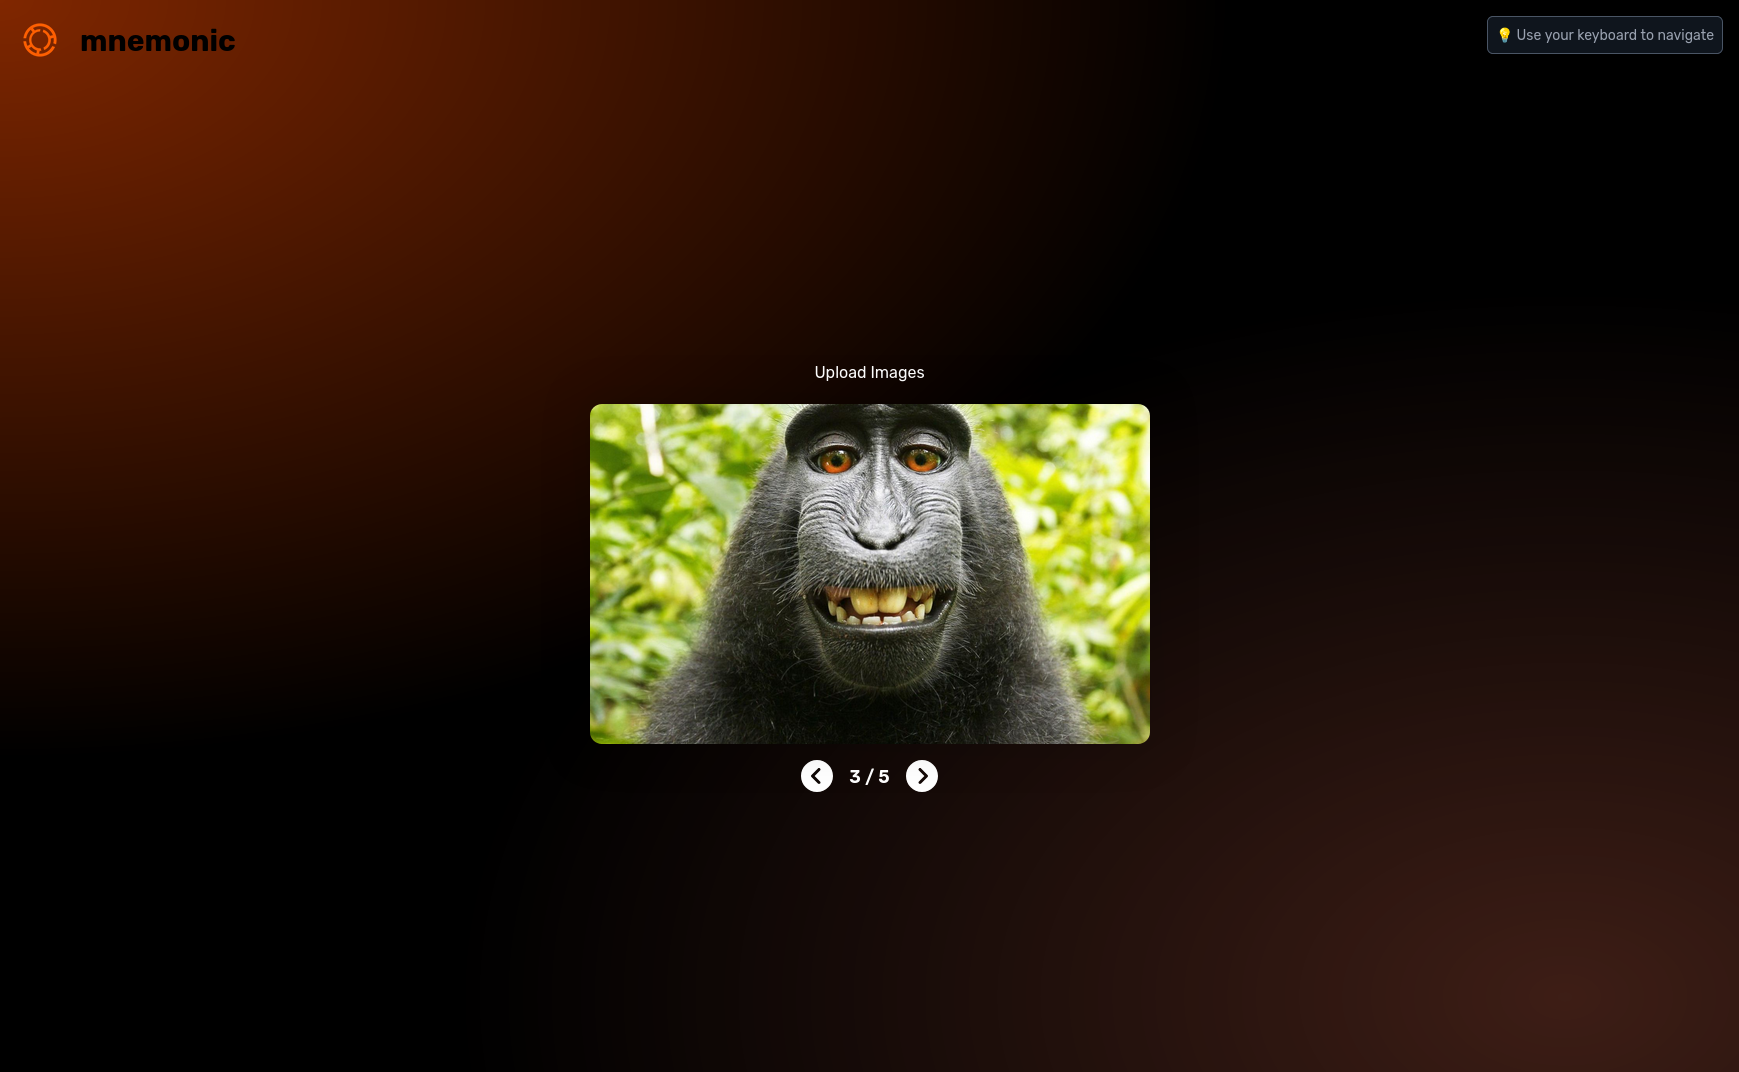
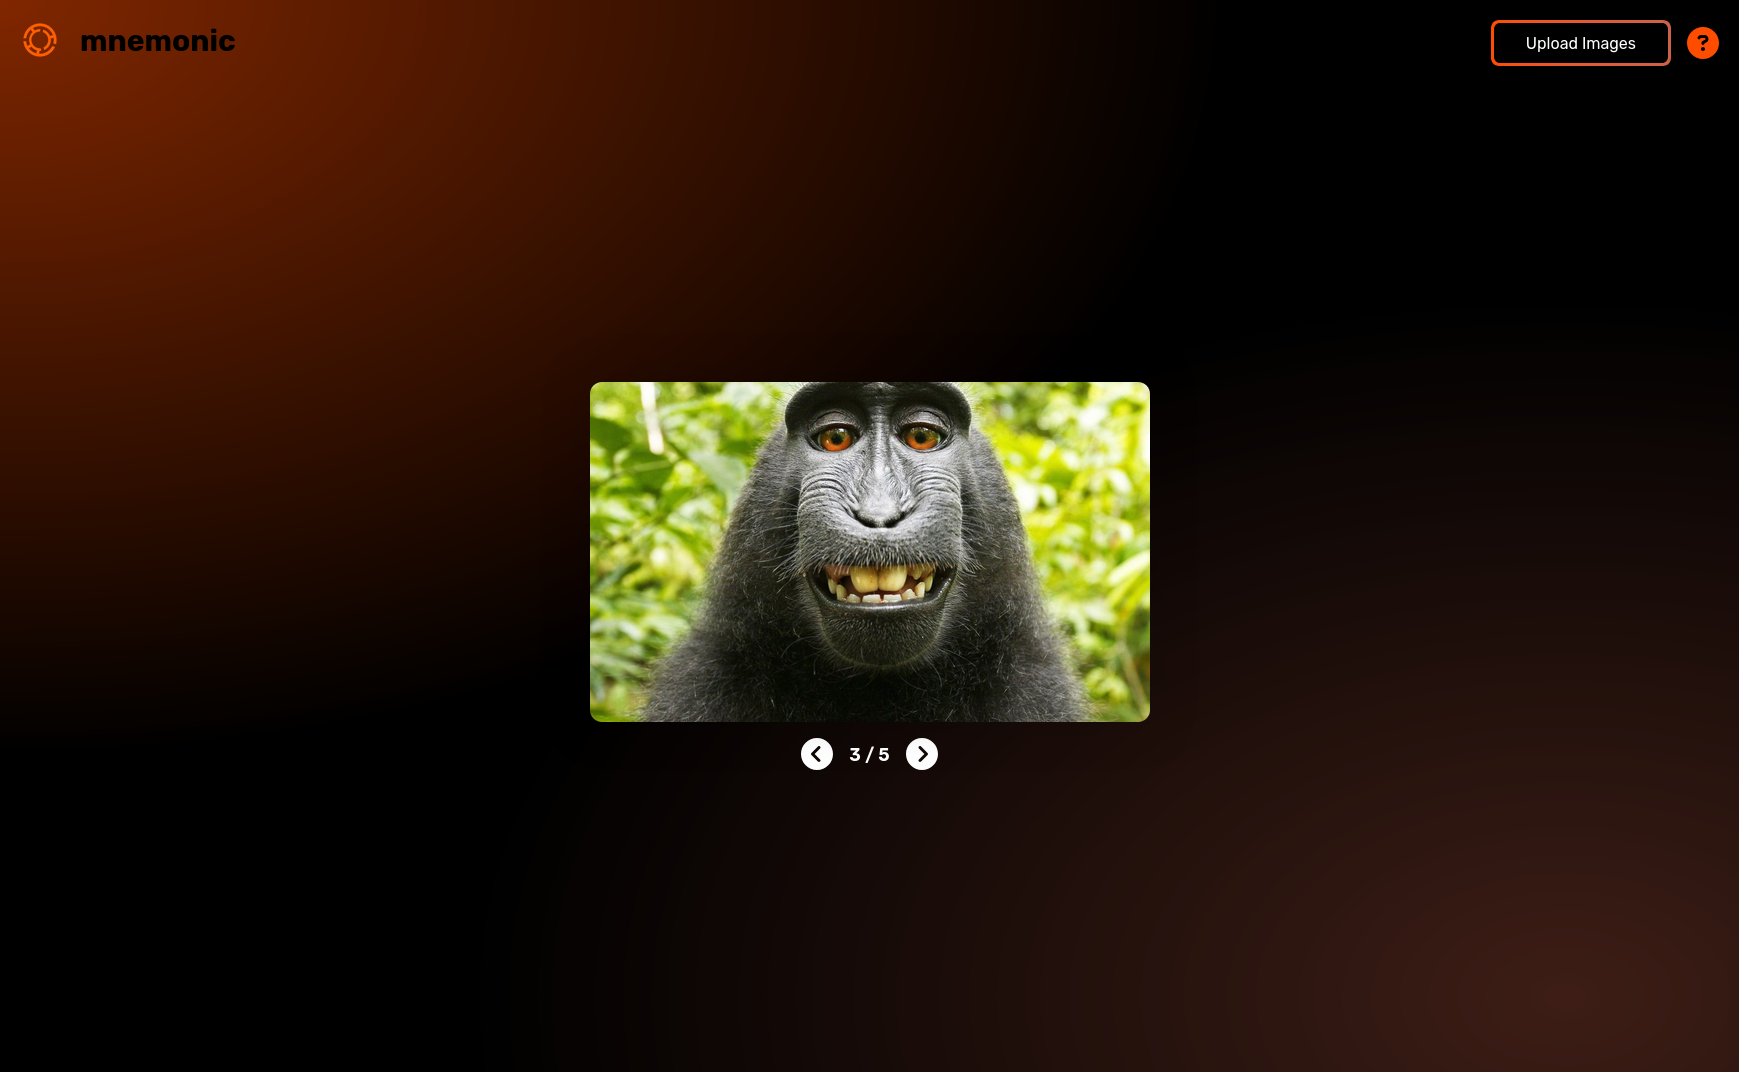
add shuffling

Changed region(s): [[0.3416, 0.3386, 0.6832, 0.7388], [0.8384, 0.0, 0.9937, 0.0616]]

diff --git a/mnemonic/src/App.tsx b/mnemonic/src/App.tsx
@@ -2,17 +2,17 @@ import { FlashcardArray } from "react-quizlet-flashcard";
 import Upload from "./Upload";
 import { useEffect, useRef, useState } from "react";
 import loadLocal from "./LoadLocal";
-import type { FlashcardProps } from "./FlashcardHelper";
+import { shuffleFlashcards, type FlashcardProps } from "./FlashcardHelper";
 import { useKeyboardShortcut } from "./KeyboardHandler";
 import { CircleChevronLeft } from "./assets/CircleChevronLeft";
 import { CircleChevronRight } from "./assets/CircleChevronRight";
 import { CircleQuestionMark } from "./assets/CircleQuestionMark";
 
-interface FlashcardControls {
+type FlashcardControls = {
   nextCard: () => void;
   prevCard: () => void;
   resetArray: () => void;
-}
+};
 
 function App() {
   const [cards, setCards] = useState<FlashcardProps[]>([]);
@@ -37,81 +37,94 @@ function App() {
     onKeyPressed: () => currentCardFlipRef.current?.(),
   });
   useKeyboardShortcut({
-    key: "r",
-    onKeyPressed: () => {
-      controlRef.current?.resetArray();
-      setCurrentCard(1);
-    },
+    key: "s",
+    onKeyPressed: () => resetCards(),
   });
 
+  function resetCards() {
+    setCards((prevCards) => shuffleFlashcards([...prevCards]));
+    controlRef.current?.resetArray();
+    setCurrentCard(1);
+  }
+
   useEffect(() => {
-    loadLocal(setCards);
+    setCards(loadLocal());
   }, []);
 
   return (
-    <div className="flex flex-col justify-center items-center h-screen gap-5">
-      <div className="absolute top-5 right-5 flex items-center gap-4">
-        <Upload setCards={setCards} />
-        <div className="relative group">
-          <CircleQuestionMark className="w-8 h-8 fill-current text-[hsl(18,100%,50%)] cursor-pointer" />
-          <div className="absolute hidden group-hover:flex flex-col gap-2 right-0 mt-4 p-4 bg-black text-white rounded-lg shadow-xl w-max text-sm border border-[hsl(12,56%,34%)]">
-            <p className="flex items-center gap-2">
-              <kbd className="font-sans font-semibold py-1 px-2 bg-[hsl(12,56%,24%)] text-[hsl(12,56%,84%)] rounded-md border-b-2 border-[hsl(12,56%,34%)]">
-                Space
-              </kbd>
-              <span> Flip card</span>
-            </p>
-            <p className="flex items-center gap-2">
-              <kbd className="font-sans font-semibold py-1 px-2 bg-[hsl(12,56%,24%)] text-[hsl(12,56%,84%)] rounded-md border-b-2 border-[hsl(12,56%,34%)]">
-                →
-              </kbd>
-              <span> Next card</span>
-            </p>
-            <p className="flex items-center gap-2">
-              <kbd className="font-sans font-semibold py-1 px-2 bg-[hsl(12,56%,24%)] text-[hsl(12,56%,84%)] rounded-md border-b-2 border-[hsl(12,56%,34%)]">
-                ←
-              </kbd>
-              <span> Previous card</span>
-            </p>
-            <p className="flex items-center gap-2">
-              <kbd className="font-sans font-semibold py-1 px-2 bg-[hsl(12,56%,24%)] text-[hsl(12,56%,84%)] rounded-md border-b-2 border-[hsl(12,56%,34%)]">
-                R
-              </kbd>
-              <span> Reset Cards</span>
-            </p>
-          </div>
-        </div>
+    <div className="flex flex-col h-screen w-full bg-black bg-[radial-gradient(at_90%_93%,hsla(12,56%,54%,0.3)_0px,transparent_50%),radial-gradient(at_0%_0%,hsla(18,100%,50%,0.5)_0px,transparent_50%)]">
+      <div className="flex items-center justify-start p-4 gap-4">
+        <img
+          src={`${import.meta.env.BASE_URL}logo.png`}
+          className="w-12 h-12"
+        />
+        <h1 className="text-3xl  font-bold">mnemonic</h1>
       </div>
-      {cards.length > 0 && (
-        <div
-          className="text-white"
-          onClick={() => currentCardFlipRef.current?.()}
-        >
-          <FlashcardArray
-            cards={cards}
-            controls={false}
-            showCount={false}
-            forwardRef={controlRef}
-            currentCardFlipRef={currentCardFlipRef}
-            onCardChange={(_, index) => {
-              setCurrentCard(index);
-            }}
-          />
-          <div className="flex items-center justify-center gap-4 mt-4 text-white">
-            <CircleChevronLeft
-              className="w-8 h-8 fill-current cursor-pointer"
-              onClick={() => controlRef.current?.prevCard()}
-            />
-            <div className="text-lg font-semibold">
-              {currentCard} / {cards.length}
+
+      <div className="flex flex-col justify-center items-center h-screen gap-5">
+        <div className="absolute top-5 right-5 flex items-center gap-4">
+          <Upload setCards={setCards} resetCardPosition={resetCards} />
+          <div className="relative group">
+            <CircleQuestionMark className="w-8 h-8 fill-current text-[hsl(18,100%,50%)] cursor-pointer" />
+            <div className="absolute hidden group-hover:flex flex-col gap-2 right-0 mt-4 p-4 bg-black text-white rounded-lg shadow-xl w-max text-sm border border-[hsl(12,56%,34%)]">
+              <p className="flex items-center gap-2">
+                <kbd className="font-sans font-semibold py-1 px-2 bg-[hsl(12,56%,24%)] text-[hsl(12,56%,84%)] rounded-md border-b-2 border-[hsl(12,56%,34%)]">
+                  Space
+                </kbd>
+                <span> Flip card</span>
+              </p>
+              <p className="flex items-center gap-2">
+                <kbd className="font-sans font-semibold py-1 px-2 bg-[hsl(12,56%,24%)] text-[hsl(12,56%,84%)] rounded-md border-b-2 border-[hsl(12,56%,34%)]">
+                  →
+                </kbd>
+                <span> Next card</span>
+              </p>
+              <p className="flex items-center gap-2">
+                <kbd className="font-sans font-semibold py-1 px-2 bg-[hsl(12,56%,24%)] text-[hsl(12,56%,84%)] rounded-md border-b-2 border-[hsl(12,56%,34%)]">
+                  ←
+                </kbd>
+                <span> Previous card</span>
+              </p>
+              <p className="flex items-center gap-2">
+                <kbd className="font-sans font-semibold py-1 px-2 bg-[hsl(12,56%,24%)] text-[hsl(12,56%,84%)] rounded-md border-b-2 border-[hsl(12,56%,34%)]">
+                  S
+                </kbd>
+                <span> Shuffle Cards</span>
+              </p>
             </div>
-            <CircleChevronRight
-              className="w-8 h-8 fill-current cursor-pointer"
-              onClick={() => controlRef.current?.nextCard()}
-            />
           </div>
         </div>
-      )}
+        {cards.length > 0 && (
+          <div
+            className="text-white"
+            onClick={() => currentCardFlipRef.current?.()}
+          >
+            <FlashcardArray
+              cards={cards}
+              controls={false}
+              showCount={false}
+              forwardRef={controlRef}
+              currentCardFlipRef={currentCardFlipRef}
+              onCardChange={(_, index) => {
+                setCurrentCard(index);
+              }}
+            />
+            <div className="flex items-center justify-center gap-4 mt-4 text-white">
+              <CircleChevronLeft
+                className="w-8 h-8 fill-current cursor-pointer"
+                onClick={() => controlRef.current?.prevCard()}
+              />
+              <div className="text-lg font-semibold">
+                {currentCard} / {cards.length}
+              </div>
+              <CircleChevronRight
+                className="w-8 h-8 fill-current cursor-pointer"
+                onClick={() => controlRef.current?.nextCard()}
+              />
+            </div>
+          </div>
+        )}
+      </div>
     </div>
   );
 }

diff --git a/mnemonic/src/FlashcardHelper.tsx b/mnemonic/src/FlashcardHelper.tsx
@@ -11,12 +11,27 @@ export type FlashcardProps = {
   backHTML: JSX.Element;
 };
 
+export function shuffleFlashcards(flashcards: FlashcardProps[]) {
+  let currentIndex = flashcards.length;
+
+  while (currentIndex != 0) {
+    let randomIndex = Math.floor(Math.random() * currentIndex);
+    currentIndex--;
+
+    [flashcards[currentIndex], flashcards[randomIndex]] = [
+      flashcards[randomIndex],
+      flashcards[currentIndex],
+    ];
+  }
+  return flashcards;
+}
+
 export function convertToFlashcards(cards: Array<CardProps>) {
   const flashcards: Array<FlashcardProps> = [];
   try {
     for (const [index, card] of cards.entries()) {
       let name = card.name
-        .replace(/\.(jpg|jpeg|png)$/i, "")
+        .replace(/\.(jpg|jpeg|png|svg)$/i, "")
         .replace(/[-_.]/g, " ");
 
       flashcards.push({

diff --git a/mnemonic/src/main.tsx b/mnemonic/src/main.tsx
@@ -5,16 +5,6 @@ import "./main.css";
 
 createRoot(document.getElementById("root")!).render(
   <StrictMode>
-    <div className="flex flex-col h-screen w-full bg-black bg-[radial-gradient(at_90%_93%,hsla(12,56%,54%,0.3)_0px,transparent_50%),radial-gradient(at_0%_0%,hsla(18,100%,50%,0.5)_0px,transparent_50%)]">
-      <div className="flex items-center justify-start p-4 gap-4">
-        <img
-          src={`${import.meta.env.BASE_URL}logo.png`}
-          className="w-12 h-12"
-        />
-        <h1 className="text-3xl  font-bold">mnemonic</h1>
-      </div>
-
-      <App />
-    </div>
+    <App />
   </StrictMode>
 );

diff --git a/mnemonic/src/Upload.tsx b/mnemonic/src/Upload.tsx
@@ -1,13 +1,16 @@
 import {
   convertToFlashcards,
+  shuffleFlashcards,
   type CardProps,
   type FlashcardProps,
 } from "./FlashcardHelper";
 
 function Upload({
   setCards,
+  resetCardPosition,
 }: {
   setCards: React.Dispatch<React.SetStateAction<Array<FlashcardProps>>>;
+  resetCardPosition: () => void;
 }) {
   function uploadFiles(files: FileList | null) {
     if (!files) return;
@@ -24,6 +27,7 @@ function Upload({
       console.log(error);
     }
     setCards(convertToFlashcards(cards));
+    resetCardPosition();
   }
   return (
     <div className="p-[3px] relative">

diff --git a/mnemonic/src/LoadLocal.ts b/mnemonic/src/LoadLocal.ts
@@ -1,9 +1,7 @@
 import { allCards } from "../cards/index";
 import { convertToFlashcards, type FlashcardProps } from "./FlashcardHelper";
-function loadLocal(
-  setCards: React.Dispatch<React.SetStateAction<Array<FlashcardProps>>>
-): void {
-  setCards(convertToFlashcards(allCards));
+function loadLocal(): FlashcardProps[] {
+  return convertToFlashcards(allCards);
 }
 
 export default loadLocal;
